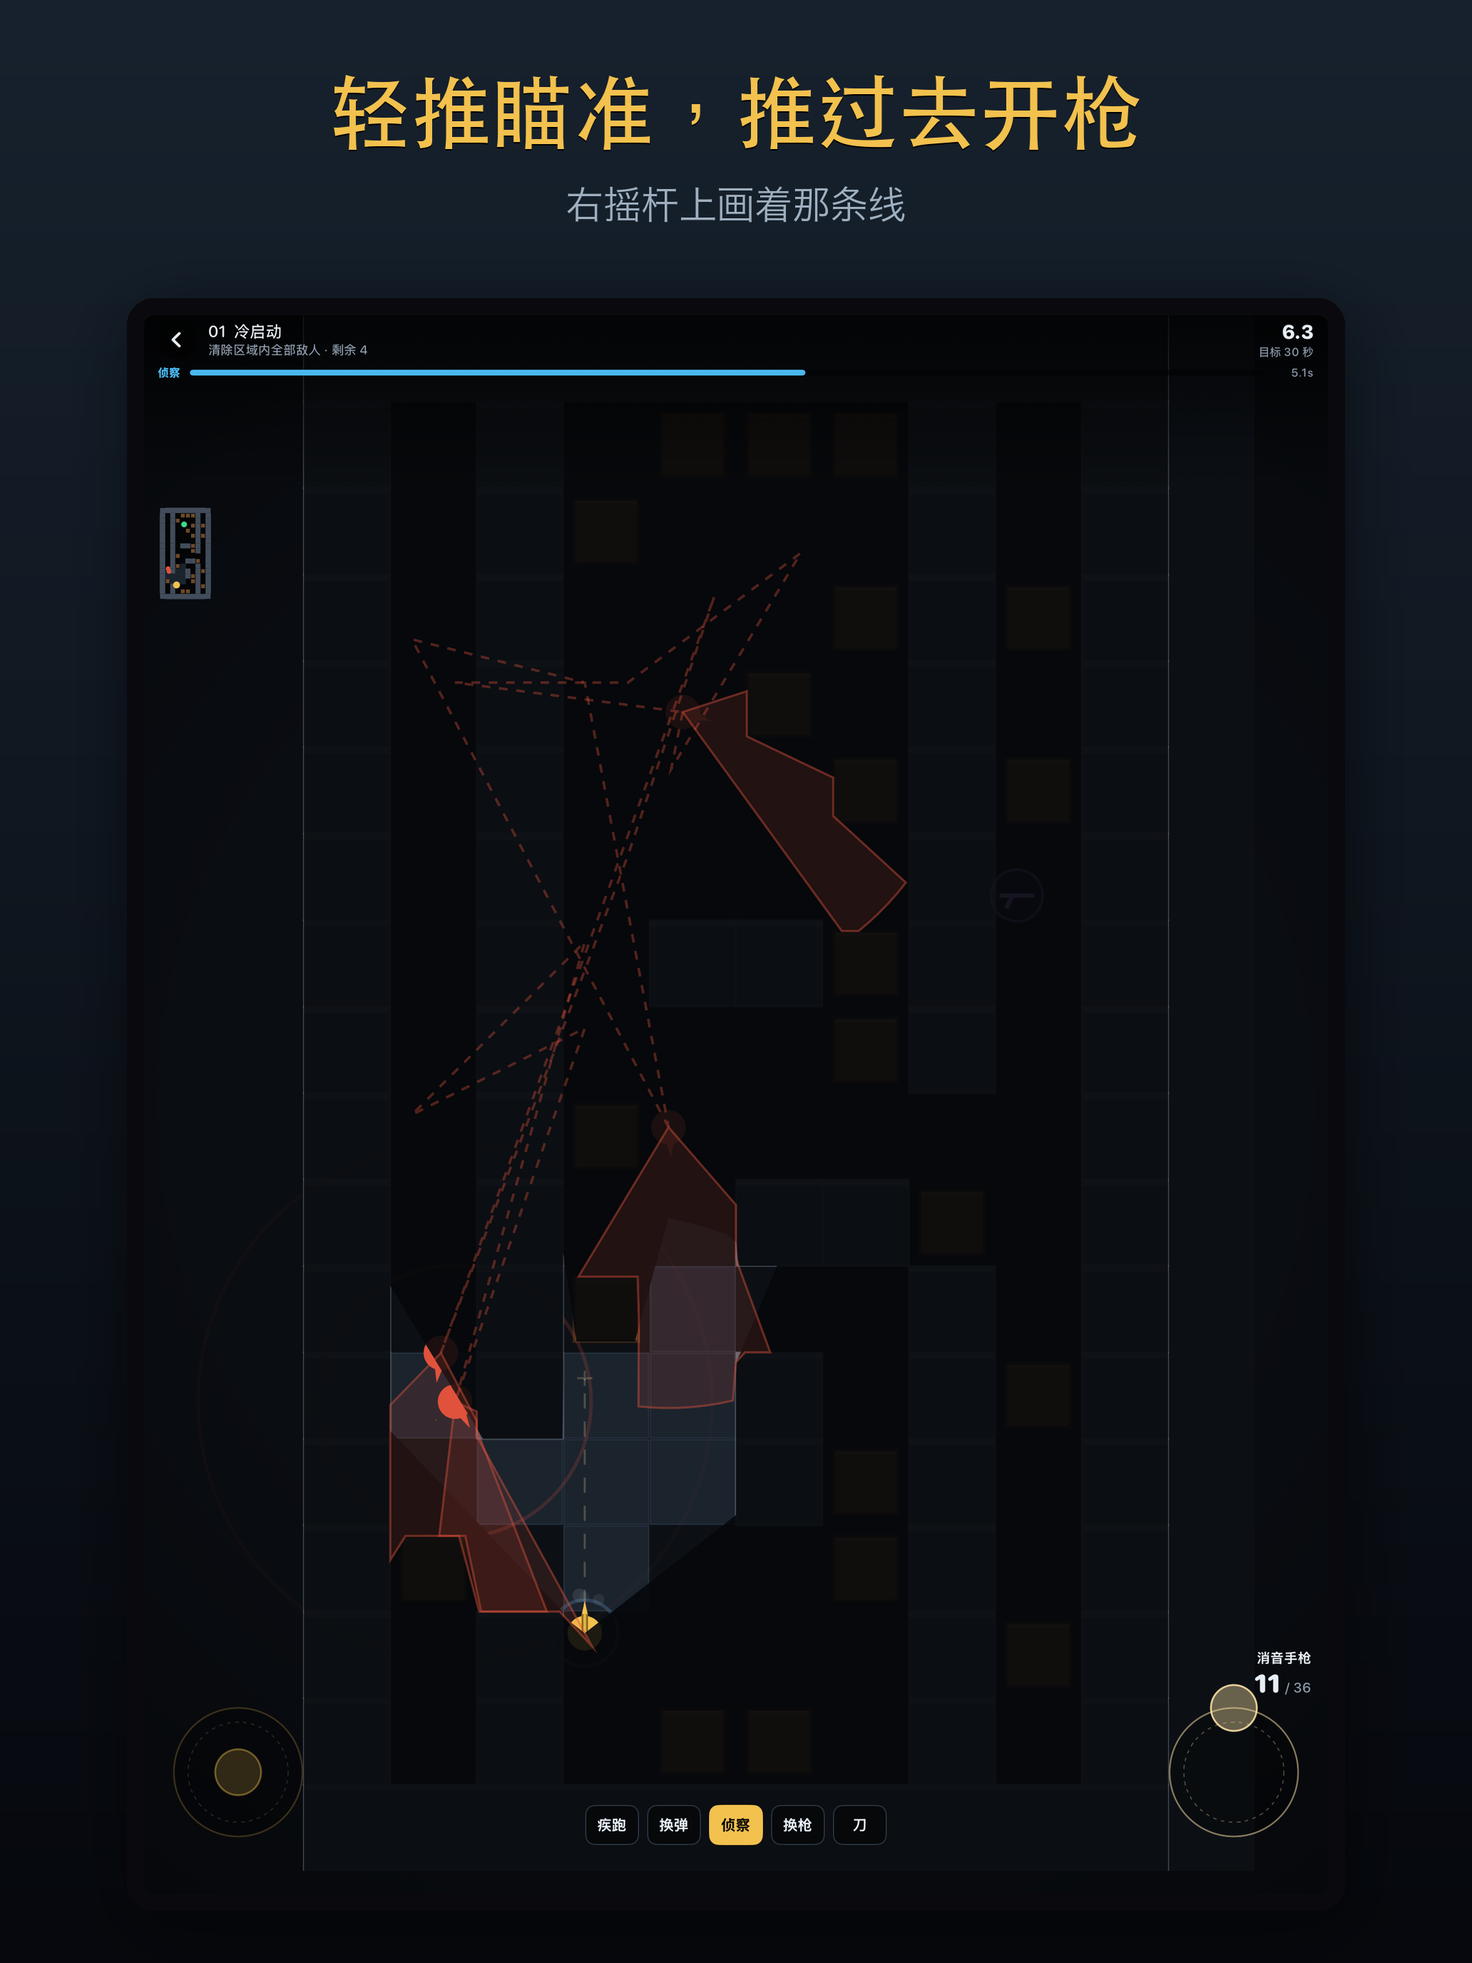
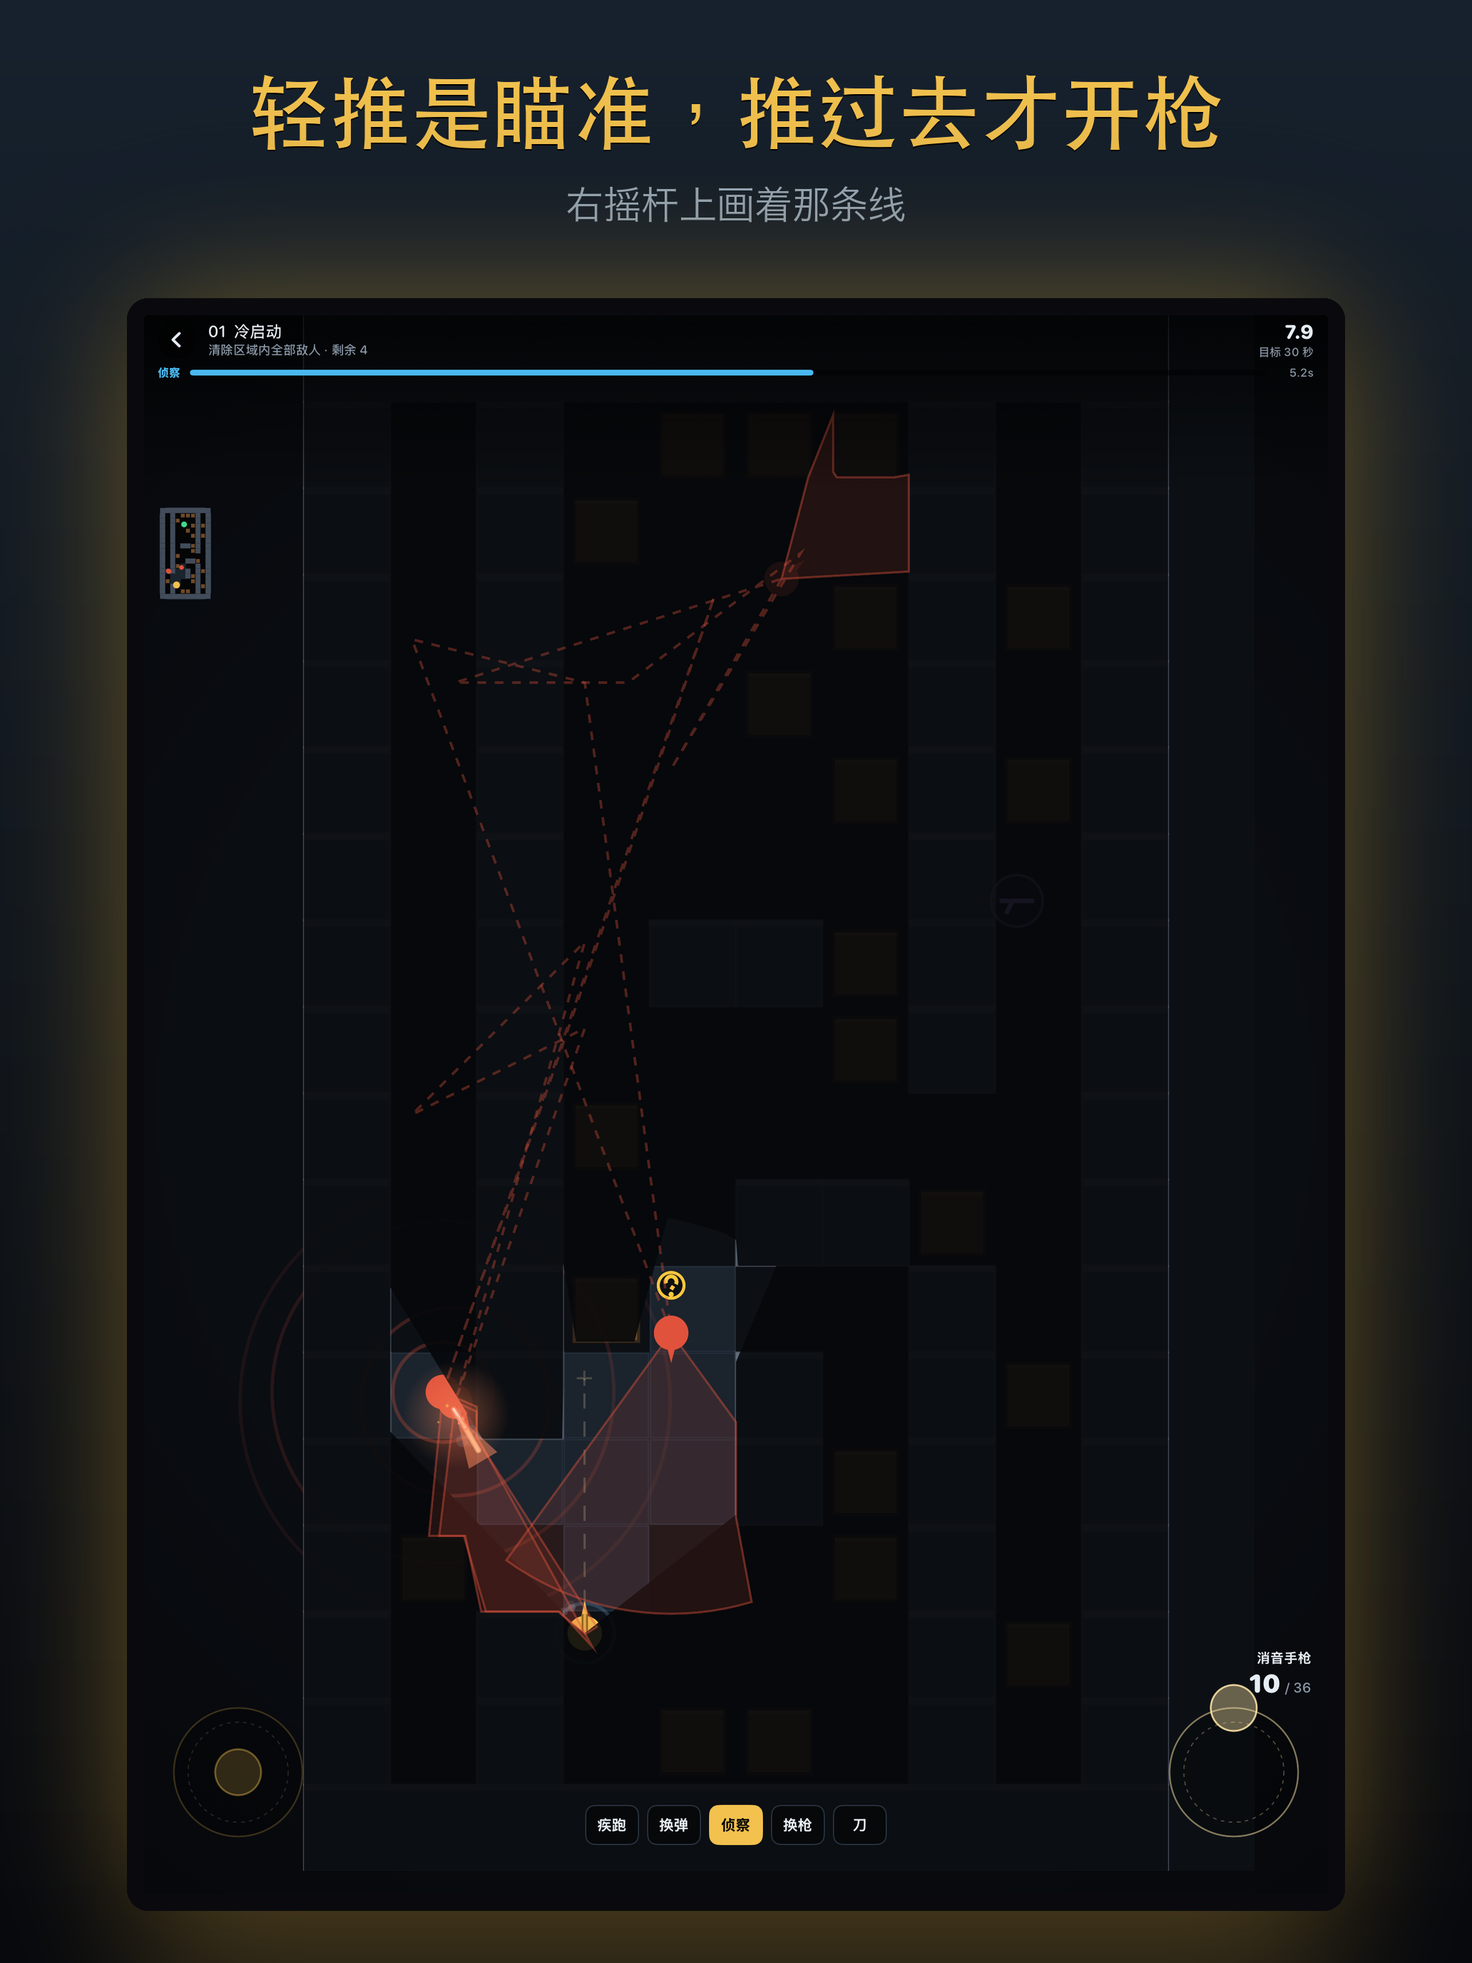
DarkZone 两套截图按现在的标题重做 + SkyStrike 改成付费下载
## DarkZone：旧的两套有两个问题，都不只是「缺一张」

**① 旧成图的标题是更早一版的措辞。** `03-scout` 写的是「侦察按真实秒计费」，
而文档现在是「看，是按真实时间计费的」——标题后来改过（第 9 节说
「刻意不写任何难度评价」），但成图没重做。所以问题不止一张图，是**整批标题和文档对不上**。

**② 旧 `05-stars` 不能传。** 标题写「三颗星是三条独立的线」，画面却是
**「行动失败」+ 0 颗星 + 击杀 0/4 + 四条判据全空**。严格说它确实把
「三条独立判据」演出来了（每行都有自己的目标值），但**拿一张失败画面当商店截图**，
读起来是「看，输是什么样」。

**新做的两套**（都在模拟器上现抓现合成，规格见 `DarkZone/Screenshots/`）：

| 目录 | 档 | 张数 |
|---|---|---|
| `screenshots/iphone/` | APP_IPHONE_67（6.9 寸 1320×2868） | 5 |
| `screenshots/ipad/` | APP_IPAD_PRO_3GEN_129（2064×2752） | 5 |

配色从**已有成图采样**还原（那份 spec 早先随 `.scratch` 清了）：
底色 `#17222E→#06080D` 竖向渐变、标题金 `#F2C14E`、副标题 `#9FB0C0`。

**`iphone-63/` 整个删掉了**：6.9 寸那套在 App Store Connect 会**自动向下级联**
到更小的机型，它变成冗余，而且里面那张 05-stars 是有问题的那张。
（内容都在 git 历史里，找得回。）

**还缺 `05-stars`**，因为它要求**真打过第一关**。01 冷启动是 `.eliminate`、
被发现上限 1 次，而关卡依次解锁（02~10 全锁），没有绕过去的第二条路。
五种打法都在 4~8 秒内被发现 2~3 次——**要么出生点就在巡逻视野里（那是真 bug），
要么是盲玩找不到那条路**，需要人工打一次才能定案。

### 必填档位那句：文档原来说的和外部资料对不上（**未解决**）

原写「必填的只有两档：iPhone 1206×2622、iPad 13 寸；6.9 寸不是必填」，
并注明核对过苹果原文。2026-10-16 复核时外部资料说法**相反**（6.9 寸才是必需的，
且 ASC 会自动级联）。**两边都没拿到一手来源**（`developer.apple.com` 在本机被
网络策略挡住），所以**没改那句**，只把两种说法并列、标成未定。
暂时按两边都满足来做。

## SkyStrike：描述里的定价那段改掉了

线上描述里那段【免费与完整版】写着「免费下载，战役可以玩到第 8 波 /
一次买断解锁完整版 / 换设备用恢复购买找回」，而**内购商品从没在 Connect 配过**
（`AGENTS.md:227` 记着），代码里 `isFullVersion = !productLoaded || purchased`
又是「拉不到就全开」——于是**付费墙从不出现，商店页却在承诺它**。

改成付费下载（¥6 一口价，价格点 10016）之后，那一段成了假话。改为：

    【一次买断】
    - 下载即完整版：战役全部 40 波、无尽模式、Boss Rush
    - 没有广告，没有体力，没有订阅，没有内购
[…]

diff --git a/darkzone/APP_STORE_LISTING.md b/darkzone/APP_STORE_LISTING.md
@@ -328,31 +328,60 @@ iPhone 上仅竖屏，iPad 支持四个方向。
 ## 8. 截图
 
 `TARGETED_DEVICE_FAMILY = "1,2"`，iPhone 与 iPad 两套都要，各 3-10 张。
-**目前一张商店截图都没有。** `DarkZone/Screenshots/` 这个目录不存在，
-`apps/darkzone/` 也是这一轮才建的。工程里唯一一张图是 `DarkZone/build/shots/menu.png`，
-它在被 `.gitignore` 忽略的 `build/` 里，是开发期截图，不是商店素材。
+（`DarkZone/.gitignore:17-23` 对这件事有明文约定：截图不进 App 仓库，
+「商店截图有自己的去处（apps/ 那边的公开仓库）」。）
 
-（`DarkZone/.gitignore:17-23` 对这件事有明文约定：截图不进 App 仓库，「商店截图有自己的去处（apps/ 那边的公开仓库）」。）
+> **2026-10-16 状态**：`apps/darkzone/screenshots/` 下现在有 **6.9 寸那套 5 张**
+> （`iphone/`，1320 x 2868），是在 iPhone 17 Pro Max 模拟器上现抓现合成的，
+> 抓法与合成规格见 `DarkZone/Screenshots/iphone-spec.json`。
+> 旧的 `iphone-63/`（6 张）和 `ipad/`（6 张）仍在，但**里面那张 `05-stars`
+> 有问题**，见下表。
 
-按 Apple《截屏规范》（Screenshot specifications，2026-10-12 核对原文），**必填的只有两档**：
+### 必填档位：文档原来那句和外部资料对不上（**未解决**）
 
-- iPhone：**带灵动岛的 iPhone（中等显示屏）**，竖屏 1206 x 2622 或 1179 x 2556
-- iPad 13 寸，竖屏 2064 x 2752
+本节原来写着「必填的只有两档：iPhone 1206 x 2622、iPad 13 寸 2064 x 2752；
+**6.9 寸 1320 x 2868 不是必填**」，并注明 2026-10-12 核对过苹果原文。
 
-6.9 寸（带灵动岛的 iPhone，大显示屏，1320 x 2868）不是必填。
+2026-10-16 复核时，外部资料的说法**与此相反**：Apple 要求 iPhone 提交至少提供
+**6.9 寸那套**，且 App Store Connect 会把它**自动向下级联**到 6.5 / 6.3 / 6.1 等
+更小的机型。也就是说 6.9 寸那套是**必需**的，1206 x 2622 反而是可选的。
 
-竖屏截图，不要裁成横版。空状态、纯海报式截图会被拒。
+**两边我都没能拿到一手来源**：`developer.apple.com` 在本机被网络策略挡住
+（`WebFetch` 直接拒绝），所以那份「核对过原文」的说法无法当场复核，
+而反过来的说法也来自二手整理。**结论未定，别把任何一边当成已有事实。**
 
-建议的六张（**刻意不写任何难度评价、不写「侦察很划算」、不写手感**，理由见第 9 节）：
+暂时按**两边都满足**来做（6.9 寸那套已经做好并上传），代价只是多一套素材。
+真正能定案的是**提交时 ASC 还报不报缺截图**——那一步现在被「协议更新」挡着
+（要账号持有人接受，见仓库根那几份文档），所以还没验过。
 
-| 文件 | 标题 | 副标题 | 对应界面 |
-|---|---|---|---|
-| `01-menu.png` | 一步一步走进去 | 抵达撤离点，或者带着情报退出来 | 主界面 |
-| `02-sticks.png` | 轻推是瞄准，推过去才开枪 | 右摇杆上画着那条线 | 关卡内，瞄准 |
-| `03-scout.png` | 看，是按真实时间计费的 | 九秒配额按真实秒扣，换来的是一张全图情报 | 侦察中，视野锥与巡逻线 |
-| `04-cover.png` | 掩体是双面的 | 挡视线也挡子弹，木箱还能被打碎 | 关卡内，掩体与木箱 |
-| `05-stars.png` | 三颗星是三条独立的线 | 用时、被发现次数、命中率，各算各的 | 通关结算面板 |
-| `06-levels.png` | 十张固定地图 | 同一关重打多少次都是那张图 | 行动列表与装备 |
+### 建议的六张（**刻意不写任何难度评价、不写「侦察很划算」、不写手感**，理由见第 9 节）
+
+| 文件 | 标题 | 副标题 | 对应界面 | 状态 |
+|---|---|---|---|---|
+| `01-menu.png` | 一步一步走进去 | 抵达撤离点，或者带着情报退出来 | 主界面 | ✅ |
+| `02-sticks.png` | 轻推是瞄准，推过去才开枪 | 右摇杆上画着那条线 | 关卡内，瞄准 | ✅ |
+| `03-scout.png` | 看，是按真实时间计费的 | 九秒配额按真实秒扣，换来的是一张全图情报 | 侦察中，视野锥与巡逻线 | ✅ |
+| `04-cover.png` | 掩体是双面的 | 挡视线也挡子弹，木箱还能被打碎 | 关卡内，掩体与木箱 | ✅ |
+| `05-stars.png` | 三颗星是三条独立的线 | 用时、被发现次数、命中率，各算各的 | 通关结算面板 | ⛔ **缺** |
+| `05-levels.png` | 十张固定地图 | 同一关重打多少次都是那张图 | 行动列表与装备 | ✅ |
+
+三点说明：
+
+- **`05-stars` 拿不到**，因为它要求**真打过第一关**。01 冷启动的目标是
+  `.eliminate`（清掉 4 个敌人）、被发现上限 1 次、par 30 秒，而关卡是**依次解锁**的
+  （行动列表里 02~10 全锁着），所以没有「绕过去」的第二条路。
+  2026-10-16 用驱动脚本盲打了五种打法，**每种都在 4~8 秒内被发现 2~3 次**：
+  什么都不做 4.2 秒 / 移动 4.1 秒 / 开枪 5~5.7 秒 / 开侦察再移动 7.9 秒
+  （侦察把世界放慢到 0.12×，确实把时间从 4 秒拉到 8 秒，但**发现次数不降**）。
+  要么是出生点就在巡逻视野里（**那就是个真 bug**），要么是盲玩找不到那条路。
+  **需要真机/模拟器上人工打一次才能定案**，见仓库根那份「真机实测是上架闸门」。
+- **旧的 `iphone-63/05-stars.png` 和 `ipad/05-stars.png` 不能直接传**：标题写着
+  「三颗星是三条独立的线」，画面却是**「行动失败」+ 0 颗星 + 击杀 0/4 + 四条判据全空**。
+  严格说它确实把「三条独立判据」演出来了（每一行都有自己的目标值），
+  但**拿一张失败画面当商店截图**，读起来是「看，输是什么样」。
+  这两张已从上传范围里剔除，等 05-stars 拿到真图之后一起重做。
+- 因为 05-stars 缺席，6.9 寸那套的第六张（行动列表）**改名为 `05-levels.png`**，
+  和上表原来的 `06-levels.png` 不同——线上那套是**连号 5 张**。
 
 ---
 

diff --git a/skystrike/APP_STORE_LISTING.md b/skystrike/APP_STORE_LISTING.md
@@ -120,11 +120,9 @@ Barriers block everyone's bullets and the good stuff hides behind them. Auto-fir
 - 结算生成一张战绩卡：分数、星级、击杀、受伤次数、存活时间
 - 通过系统分享面板发出，发到哪由你决定，不点它什么都不会离开设备
 
-【免费与完整版】
-- 免费下载，战役可以玩到第 8 波
-- 一次买断解锁完整版：战役全部 40 波、无尽模式、Boss Rush
-- 没有广告，没有体力，没有订阅
-- 换设备用「恢复购买」找回，不用重新付费
+【一次买断】
+- 下载即完整版：战役全部 40 波、无尽模式、Boss Rush
+- 没有广告，没有体力，没有订阅，**没有内购**
 
 【隐私与素材】
 - 不收集任何数据，App 里没有任何网络代码
@@ -284,24 +282,63 @@ arcade,retro,offline,premium,wave,combo,shmup,danmaku,bullet hell,spaceship
 | 字段 | 建议 |
 |---|---|
 | 主要类别 | 游戏 / Games，子类 **动作 / Action** |
-| 次要类别 | 游戏 / Games，子类 街机 / Arcade |
-| 内购 | 一项非消耗型：完整版（拟 ¥18 价格档）。**⚠ 商品目前还没在 Connect 配好，见下** |
+| 内购 | **无。** 2026-10-16 改成**付费下载（¥6 一口价，价格点 10016）**，见下 |
 | 年龄分级 | 抽象的几何图形空战。问卷里的「卡通或幻想暴力」按实际作答，以 Connect 判定结果为准 |
 | App 隐私 | **不收集数据**。App 里没有网络代码，须与 `privacy.html` 一致 |
 | 出口合规 | **NO**（`INFOPLIST_KEY_ITSAppUsesNonExemptEncryption = NO` 已写在工程里；App 完全没有加密代码） |
 
 审核备注建议写清：本 App 不发起网络请求、不收集任何数据，没有账号体系。
-免费可玩战役前 8 波；完整版为一次性非消耗型内购，购买与恢复由系统 StoreKit 完成，无订阅。
+**一次买断的付费下载，下载即完整版，没有任何内购或订阅。**
 全部音效由代码实时合成，全部画面由代码绘制，不含任何第三方素材或 SDK。
 iPhone 与 iPad 均为竖屏，不支持横屏。
 
-内购商品 ID：`com.gezhipeng0201.SkyStrike.full`。
+### 次要类别为什么留空（2026-10-16，两个原因叠加）
 
-**⚠ 上架前必须先把商品配好。** `SkyStrike/AGENTS.md:227` 明确记着商品**尚未在 App Store Connect 配置**，
-而 `Entitlements.swift:37` 是 `isFullVersion = !productLoaded || purchased`——
-**商品拉不到就全开**。这条是刻意设计的（`AGENTS.md:44-46`：「宁可不收钱，也不能让玩家打开是残废版」，
-并特意写了不要改成「拉不到就锁死」），但后果是：**商品没配好就提审，审核看到的会是全开状态。**
-必须先配好商品、并随版本一起提交审核。
+原来写的是「游戏 / Games，子类 街机 / Arcade」。这个值**双重不可能**：
+
+1. **ASC 里没有「街机」这个子类。** 实测 `/v1/appCategories` 给的 iOS 游戏子类只有
+   动作 / 冒险 / 棋牌 / 卡牌 / 赌场 / 休闲 / 家庭 / 音乐 / 拼图 / 竞速 / 角色扮演 /
+   模拟 / 体育 / 策略 / 问答 / 文字 —— **`ARCADE` 不在其中**。
+   （`api.py fill` 报的「对不上类别…没有相近的」说的是这件事，它**拒绝**挑一个「差不多」的。）
+2. **就算有也不能选。** 主类别已经是「游戏」，而苹果**不允许同一个类别选两次**
+   —— DarkZone 2026-10-14 真写时被拒过：`HTTP 409 You may not select the same category
+   twice for your app.` 次要类别在 ASC 是**可选**的，留空不影响提交。
+   （要填只能挑一个**非游戏**的顶级类别，比如娱乐 / Entertainment。）
+
+第 1 条是「工具报的那句话」，第 2 条是「为什么连换一个子类也不行」——
+**只看第 1 条会往「换个存在的子类」那个方向修，而那个方向本身就是堵的。**
+
+### 定价：2026-10-16 改成付费下载（¥6），原方案作废
+
+**原来写的是**「免费下载 + ¥18 一次性内购解锁完整版」，商品 ID
+`com.gezhipeng0201.SkyStrike.full`，并注明「上架前必须先把商品配好」。
+
+**2026-10-16 复核时发现这条路走不通**，三件事叠在一起：
+
+1. **商品根本没配**（`AGENTS.md:227` 记着），而 `Entitlements.swift:37` 是
+   `isFullVersion = !productLoaded || purchased` —— **商品拉不到就全开**。
+   这条兜底本身是善意的（`AGENTS.md:44-46`：「宁可不收钱，也不能让玩家打开是残废版」），
+   但后果是**付费墙从不出现**，而描述里却写着它。
+2. **官方 API 不允许创建内购**。实测：
+
+       POST /v1/inAppPurchases
+       → HTTP 403: The resource 'inAppPurchases' does not allow 'CREATE'.
+                   Allowed operation is: GET_INSTANCE
+
+   和「新建 App」是同一个形状——**只能用 Safari 或人工**。
+3. 描述里那段【免费与完整版】是**已经上线**的（2026-10-16 读线上确认），
+   也就是商店页在承诺一个玩家看不到的付费墙。
+
+**改成付费下载 ¥6 一口价**（价格点 `10016`，中国区；其他区由苹果自动换算）。
+连带改动：
+
+- 描述里【免费与完整版】→【一次买断】（**已改**，见本文件上部那个代码块）
+- **代码不用改**：商品不存在 → `productLoaded` 为假 → `isFullVersion` 为真 →
+  全部 40 波开放、付费墙不出现，**正好就是付费下载该有的行为**
+- ⚠ **但 App 内「恢复购买」那一行要处理**：`SettingsView.swift` 的 `links` 里
+  它是**无条件显示**的，点下去只会说「没有找到可恢复的购买」——一个死按钮。
+  建议按 `entitlements.paywallAvailable` 加个判断把它藏掉，但那要改代码、
+  重新构建并**重新上传构建**，本轮没动。
 
 **年龄问卷有一项需要你亲眼确认。** 全部画面是代码绘制的几何图形，资源目录里除了 AppIcon 没有任何位图，
 这一条是可核实的。但**「击中敌机那一刻的画面是什么样」本轮没有逐帧读绘制代码**，
